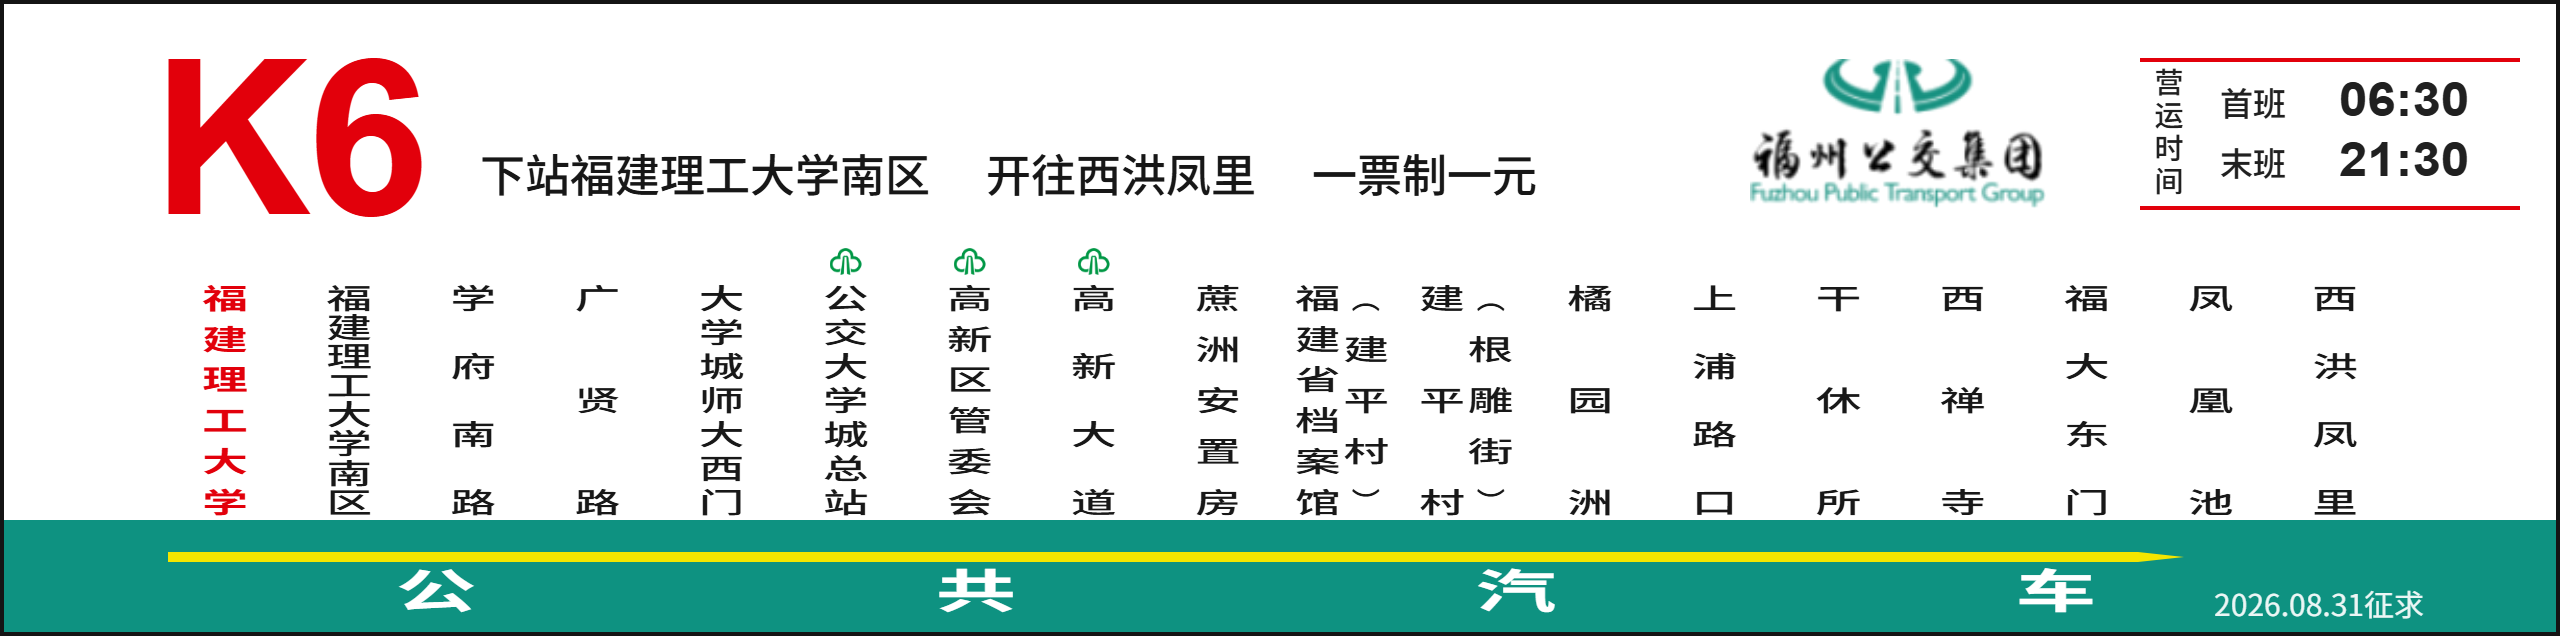
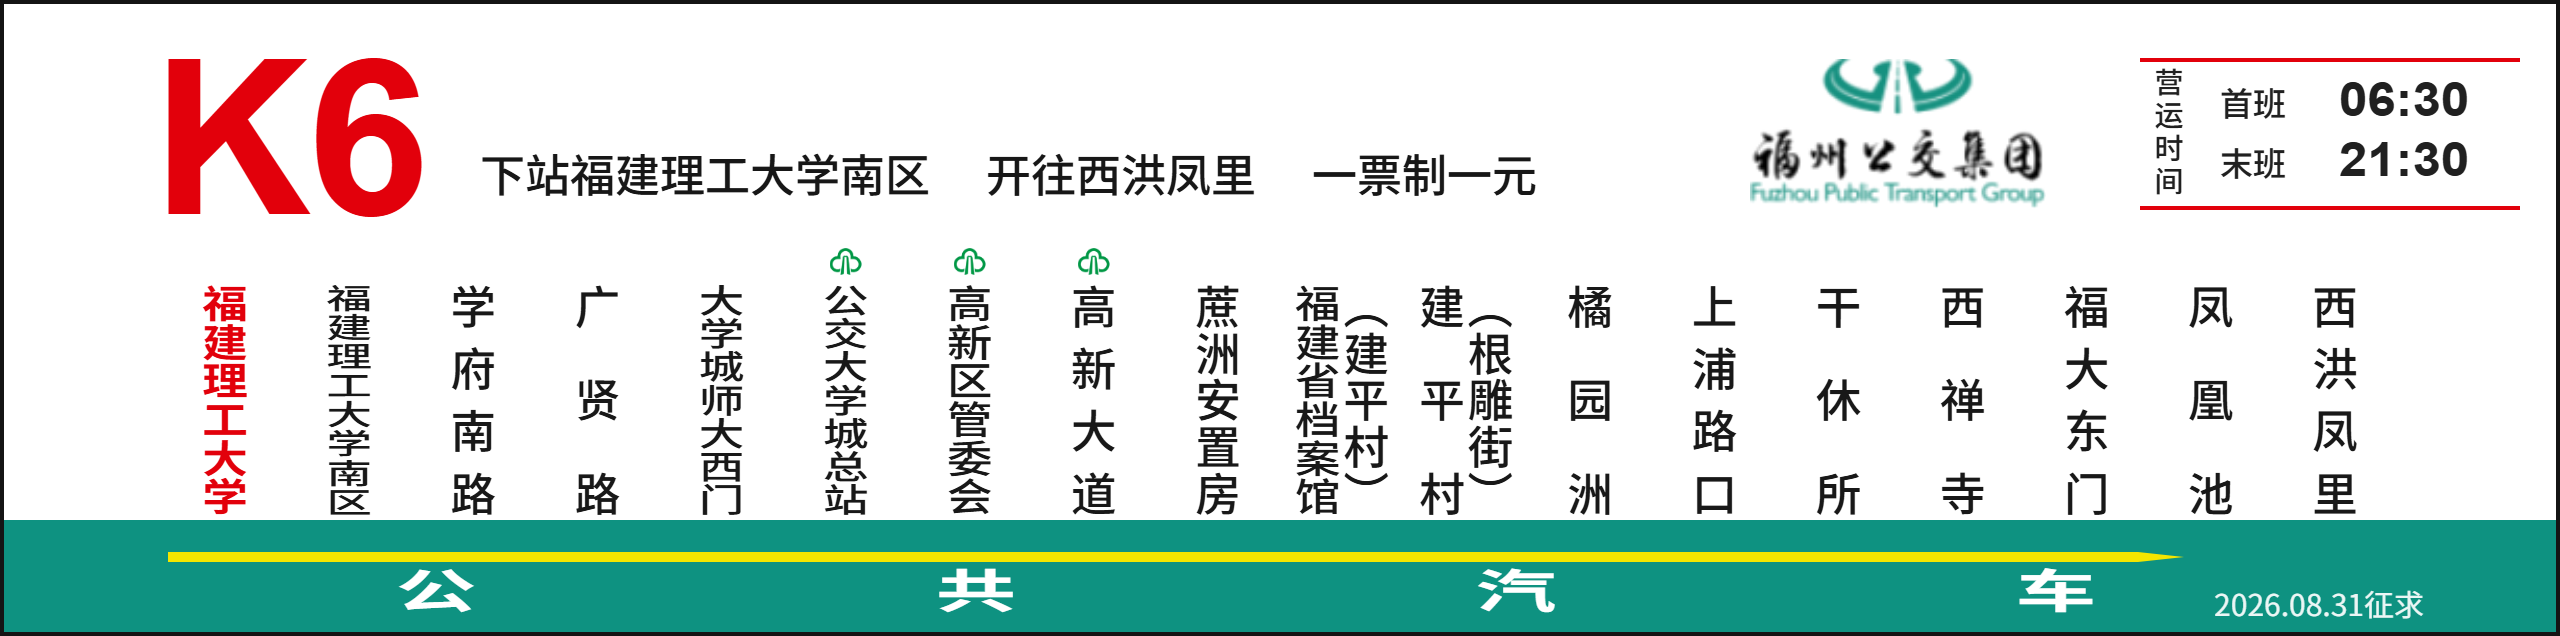
Add files via upload

diff --git a/app.js b/app.js
@@ -150,7 +150,7 @@
   const REGULAR_NUMBER_COLOR = "#e2000b";
   const CANVAS_CHINESE_FONT = '"Noto Sans SC", "Microsoft YaHei", "PingFang SC", sans-serif';
   const CANVAS_NUMBER_FONT = '"Bahnschrift", "Arial Narrow", "Noto Sans SC", sans-serif';
-  const MAX_STATION_GLYPH_SCALE = 1.6;
+  const MAX_STATION_GLYPH_SCALE = 1.05;
 
   const METRO_ICON_SMALL = `<img class="station-metro-icon" src="assets/icon-metro.png" alt="">`;
   const HOSPITAL_ICON_SMALL = `<img class="station-hospital-icon" src="assets/icon-hospital.png" alt="">`;
@@ -741,6 +741,23 @@
     return 12;
   }
 
+  function stationHeightScale(charCount) {
+    if (charCount <= 5) return 1;
+    const scaleByChars = {
+      6: 0.85,
+      7: 0.73,
+      8: 0.63,
+      9: 0.55,
+      10: 0.48,
+      11: 0.42,
+      12: 0.37
+    };
+    if (scaleByChars[charCount]) return scaleByChars[charCount];
+    let scale = scaleByChars[12];
+    for (let count = 13; count <= charCount; count += 1) scale *= 0.9;
+    return Math.max(0.2, scale);
+  }
+
   function splitStationName(name) {
     const text = String(name || "未命名").trim();
     // Only a parenthetical group at the very end gets its own column.
@@ -771,7 +788,7 @@
     return char === "（" || char === "(" || char === "）" || char === ")";
   }
 
-  function drawVerticalGlyph(ctx, char, x, y, glyphScale = 1.38) {
+  function drawVerticalGlyph(ctx, char, x, y, glyphScale = 1.05) {
     ctx.save();
     ctx.translate(x, y);
     if (isParenChar(char)) {
@@ -3387,11 +3404,12 @@
     const gap = 1;
     const available = 1276 - left - right;
     const cellWidth = (available - gap * (count - 1)) / count;
-    // All station names share one top edge and one font size; shorter names
-    // get evenly distributed spacing instead of a smaller font.
+    // Five characters use 100% height; longer names step down (85%, 73%, 63%…)
+    // so long vertical names stay full without stretching short names apart.
     const iconY = 122;
     const baseNameTop = 140;
     const maxHeight = 116;
+    const baseStationSize = (maxHeight / 5) * 0.98;
     const columnGap = 1.5;
 
     const layouts = stations.map((station) => {
@@ -3403,24 +3421,11 @@
       return { columns };
     });
 
-    const maxChars = Math.max(1, ...layouts.flatMap((layout) =>
-      layout.columns.map((column) => column.chars.length)
-    ));
     const maxColumns = Math.max(1, ...layouts.map((layout) => layout.columns.length));
-    const availableWidth = cellWidth - 2 - (maxColumns - 1) * columnGap;
-    const heightLimitedSize = Math.max(5, Math.min(
-      getStationFontSize(count),
-      (maxHeight / maxChars) * 0.98
-    ));
-    let size = heightLimitedSize;
-    let glyphScale = Math.min(
-      MAX_STATION_GLYPH_SCALE,
-      availableWidth / (maxColumns * heightLimitedSize)
+    const targetGlyphWidth = Math.min(
+      baseStationSize,
+      (cellWidth - 2 - (maxColumns - 1) * columnGap) / maxColumns
     );
-    if (glyphScale < 1) {
-      glyphScale = 1;
-      size = Math.max(5, availableWidth / maxColumns);
-    }
 
     stations.forEach((station, index) => {
       const center = left + index * (cellWidth + gap) + cellWidth / 2;
@@ -3471,24 +3476,23 @@
       }
 
       const columns = layouts[index].columns;
-      const glyphWidth = size * glyphScale;
-      const totalWidth = columns.length * glyphWidth + (columns.length - 1) * columnGap;
-      const firstColumnX = center - totalWidth / 2 + glyphWidth / 2;
+      const totalWidth = columns.length * targetGlyphWidth + (columns.length - 1) * columnGap;
+      const firstColumnX = center - totalWidth / 2 + targetGlyphWidth / 2;
 
       ctx.save();
       ctx.fillStyle = station.id === (state.selectedStationId || state.stations[0]?.id)
         ? "#e2000b"
         : "#181818";
-      ctx.font = `${index === 0 ? 600 : 500} ${size}px ${CANVAS_CHINESE_FONT}`;
       ctx.textAlign = "center";
       ctx.textBaseline = "middle";
 
       columns.forEach((column, columnIndex) => {
-        const columnX = firstColumnX + columnIndex * (glyphWidth + columnGap);
-        const count = column.chars.length;
-        // Justify between the shared top edge and the shared bottom edge:
-        // the first glyph sits at the top and the last glyph at the bottom.
-        const step = count > 1 ? (maxHeight - size) / (count - 1) : 0;
+        const columnX = firstColumnX + columnIndex * (targetGlyphWidth + columnGap);
+        const charCount = Math.max(1, column.chars.length);
+        const size = Math.max(5, baseStationSize * stationHeightScale(charCount));
+        const glyphScale = Math.min(3.2, targetGlyphWidth / size);
+        const step = charCount > 1 ? (maxHeight - size) / (charCount - 1) : 0;
+        ctx.font = `${index === 0 ? 600 : 500} ${size}px ${CANVAS_CHINESE_FONT}`;
         column.chars.forEach((char, charIndex) => {
           if (char === " ") return;
           const charY = baseNameTop + size / 2 + charIndex * step;

diff --git a/index.html b/index.html
@@ -157,7 +157,7 @@
 
             <div class="station-tip">
               <svg viewBox="0 0 20 20" aria-hidden="true"><path d="M10 18s6-5.1 6-10a6 6 0 1 0-12 0c0 4.9 6 10 6 10Z" fill="none" stroke="currentColor" stroke-width="1.5"/><circle cx="10" cy="8" r="2.2" fill="none" stroke="currentColor" stroke-width="1.5"/></svg>
-              主要方式：点击下方地图，自动搜索附近公交站并接入线路。点站点序号或行空白处可设为当前站，该站及地图上对应圆点会变红，表头「下站」自动跟着改；双击站点可查看这个站的全部线路长图。载入带坐标的线路后会自动检测最近的地铁站/医院，200m 内自动点亮；也可以点「自动检测」重新查询，或在每站右侧手动改。站名强制单列、统一字号并顶部对齐，少字站自动均布空格；只有末尾括号会竖排到第二列，中间的括号仍留在主列。
+              主要方式：点击下方地图，自动搜索附近公交站并接入线路。点站点序号或行空白处可设为当前站，该站及地图上对应圆点会变红，表头「下站」自动跟着改；双击站点可查看这个站的全部线路长图。载入带坐标的线路后会自动检测最近的地铁站/医院，200m 内自动点亮；也可以点「自动检测」重新查询，或在每站右侧手动改。站名强制单列，首字贴顶、末字贴底，底边全部对齐；短站名只拉开字间距，不改变字号。每个字的横向宽度统一，字高按字数纵向压缩（5字内100%、6字85%、7字73%、8字63%…）。只有末尾括号会竖排到第二列，括号与主列同顶边、同底边。
             </div>
 
             <p class="facility-scan-status" id="facilityScanStatus" hidden></p>

diff --git a/README.md b/README.md
@@ -13,7 +13,7 @@
 - **站点管理**：改名、拖动/箭头排序、设为当前站、双击查看车站详情。
 - **设施标记**：自动检测 200m 内最近的地铁站/医院，自动点亮图标；2 QPS 限速 + 本地缓存。
 - **车站详情长图**：按公交站两侧分别生成长图，一条线路一张完整站牌，K 线在前、数字线从小到大、特殊线在后，可下载 PNG。
-- **站名排版**：统一字号、汉字横向动态拉伸、末尾括号进第二列、短站名自动均布。
+- **站名排版**：所有单字横向宽度统一，字高按字数纵向压缩（5 字内 100%、6 字 85%、7 字 73%、8 字 63%…）；首字贴顶、末字贴底，底边全部对齐，短站名只拉字间距不改字号；末尾括号单独成列并与主列同顶同底。
 
 ## 技术
 
